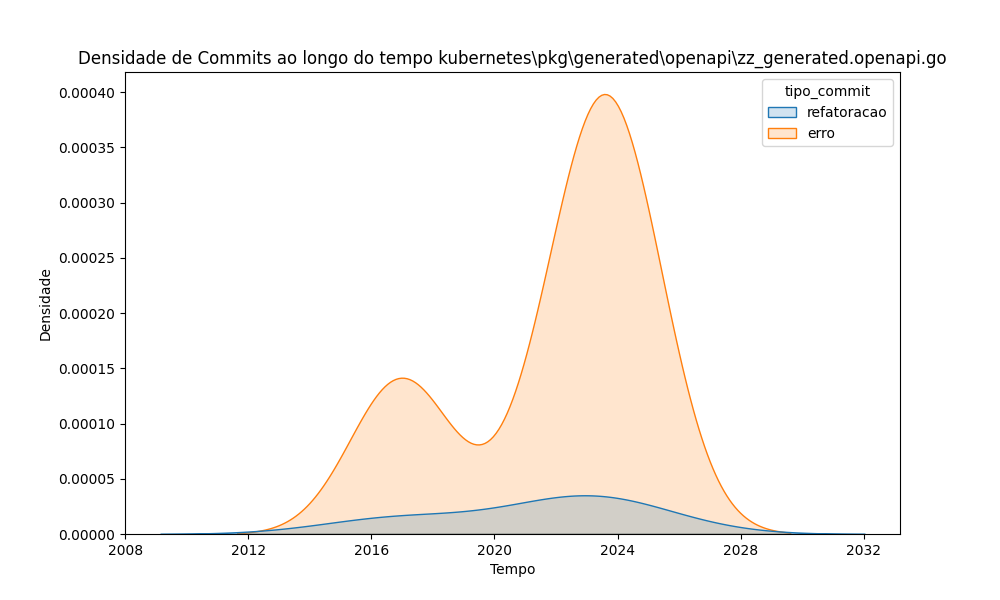
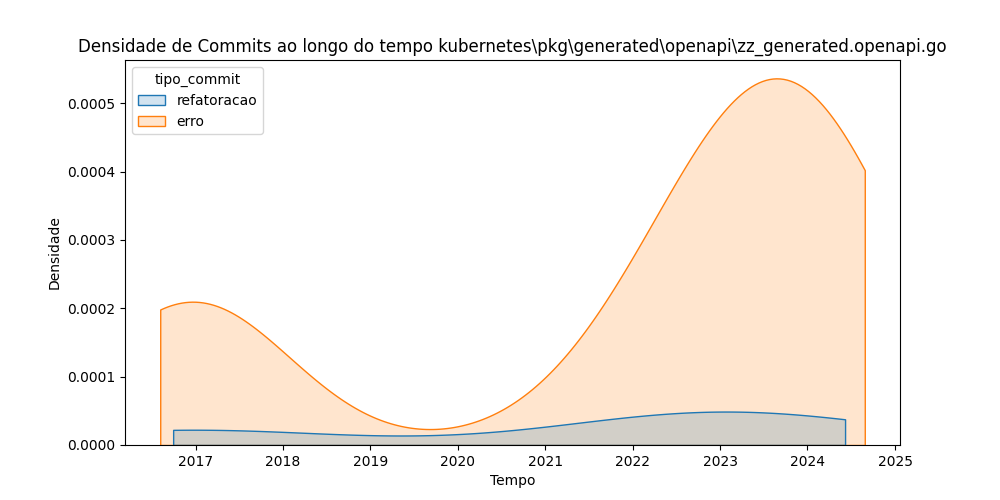
fix: density graph dates

diff --git a/analisys.py b/analisys.py
@@ -4,6 +4,7 @@ import logging
 import pandas as pd
 import matplotlib.pyplot as plt
 import seaborn as sns
+from datetime import datetime
 
 repo_path = os.path.join(os.path.dirname(
     os.path.abspath(__file__)), 'kubernetes')
@@ -99,6 +100,7 @@ def get_data(conn):
     try:
         df = pd.read_sql_query(query, conn)
         df['date'] = pd.to_datetime(df['date'])
+
         return df
     except pd.io.sql.DatabaseError as e:
         log_error(f"Erro ao executar a query: {e}")
@@ -113,23 +115,13 @@ def plot_density_graph(df):
     if not os.path.exists(output_dir):
         os.makedirs(output_dir)
 
-    # Converter a coluna de datas para o tipo datetime
-    df['date'] = pd.to_datetime(df['date'], errors='coerce', utc=True)
-
-    # Verificar se há valores NaT na coluna 'date' e tratá-los
-    if df['date'].isna().any():
-        print(
-            f"Aviso: {df['date'].isna().sum()} datas inválidas encontradas e serão removidas.")
-        # Remove linhas com valores NaT em 'date'
-        df = df.dropna(subset=['date'])
-
     # Criar gráfico de densidade
     for path, group in df.groupby('path'):
-        plt.figure(figsize=(10, 6))
+        plt.figure(figsize=(10, 5))
 
         # Plotar densidade usando kdeplot e ajustando a largura da banda
         sns.kdeplot(data=group, x='date', hue='tipo_commit',
-                    bw_adjust=1.5, fill=True, alpha=0.2)
+                    cut=0, fill=True, alpha=0.2)
 
         index = path.index('kubernetes')
         path = path[index:]
